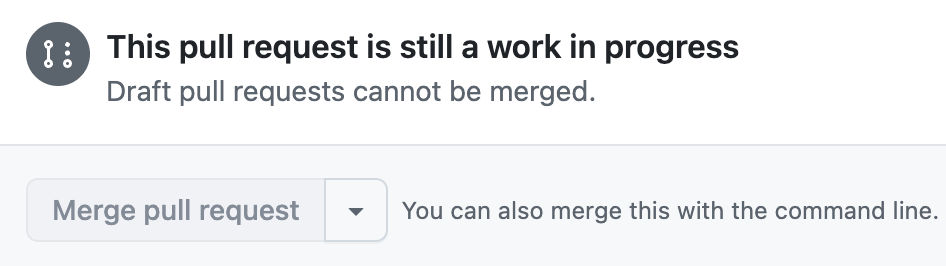
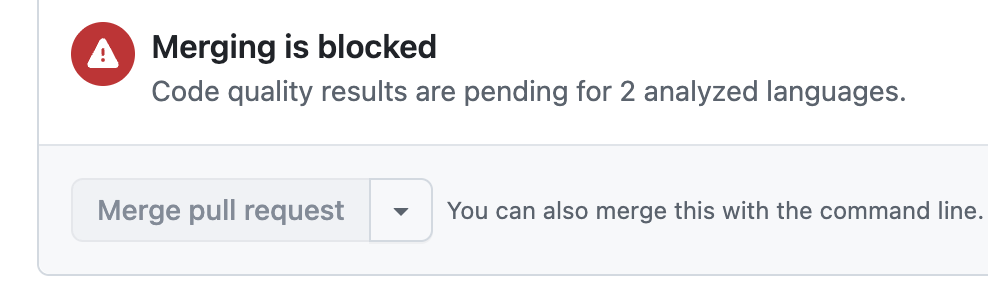
feat: increase coverage requirement to 80%

diff --git a/.github/steps/4-step.md b/.github/steps/4-step.md
@@ -41,9 +41,9 @@ Read More:
 
    <img width="350" alt="rule to require code quality results" src="../images/rulesets-require-coverage.png">
 
-1. Under **Branch Rules**, enable the option `Restrict code coverage`. Set the **Minimum coverage percentage** to `60`.
+1. Under **Branch Rules**, enable the option `Restrict code coverage`. Set the **Minimum coverage percentage** to `80`.
 
-   <img width="350" alt="rule to require code coverage" src="../images/rulesets-restrict-code-coverage.png">
+   <img width="350" alt="rule to require code coverage" src="../images/rulesets-restrict-code-coverage-80.png">
 
 1. Scroll to the bottom and select **Create** to save the ruleset.
 
@@ -77,7 +77,7 @@ With the ruleset active, let's fix one more finding in the Mergington High codeb
 
    <img width="500px" alt="pull requests, test coverage comment" src="../images/pull-request-coverage-comment.png">
 
-1. On the newly created pull request, click the **Ready for review** button to make it active.
+1. Click the **Ready for review** button to make it active.
 
 1. Since all checks pass, click the **Merge pull request** button. After merging, you can delete this temporary branch.
 
